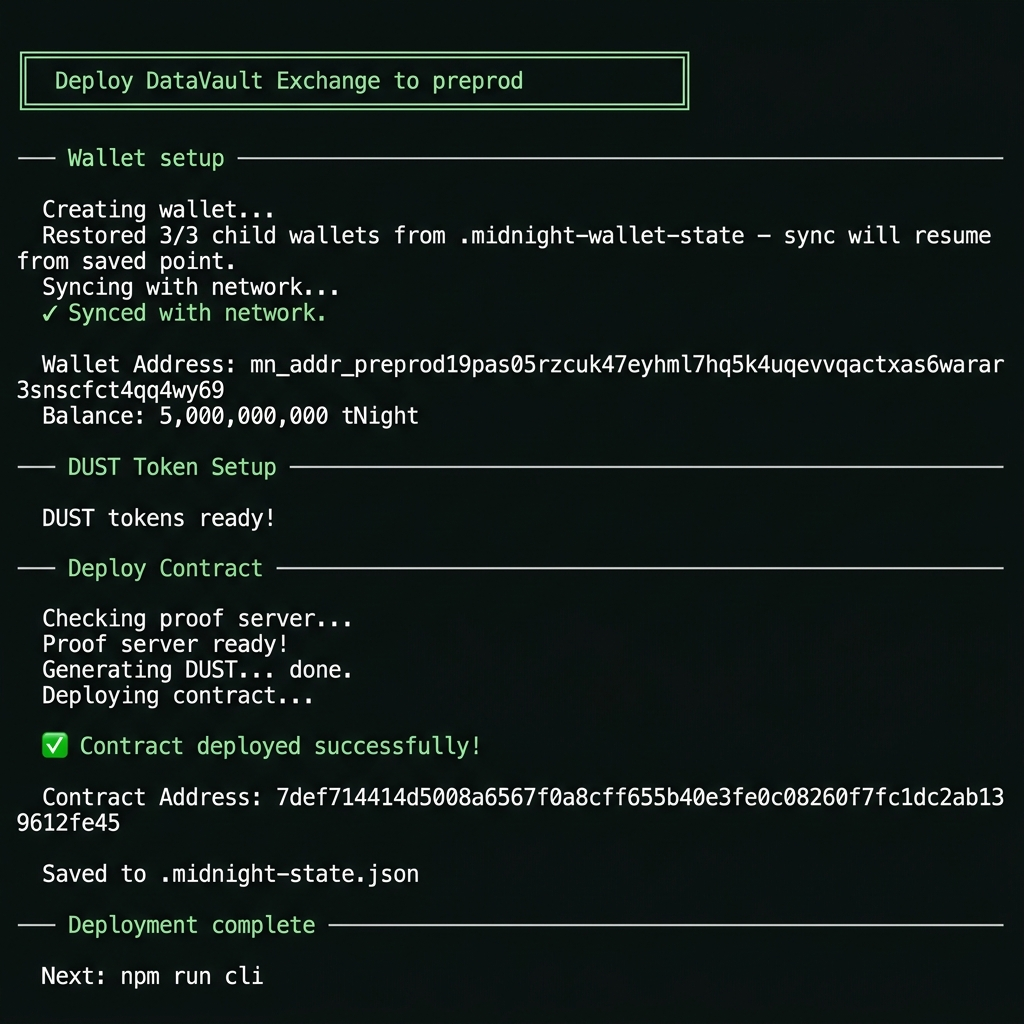
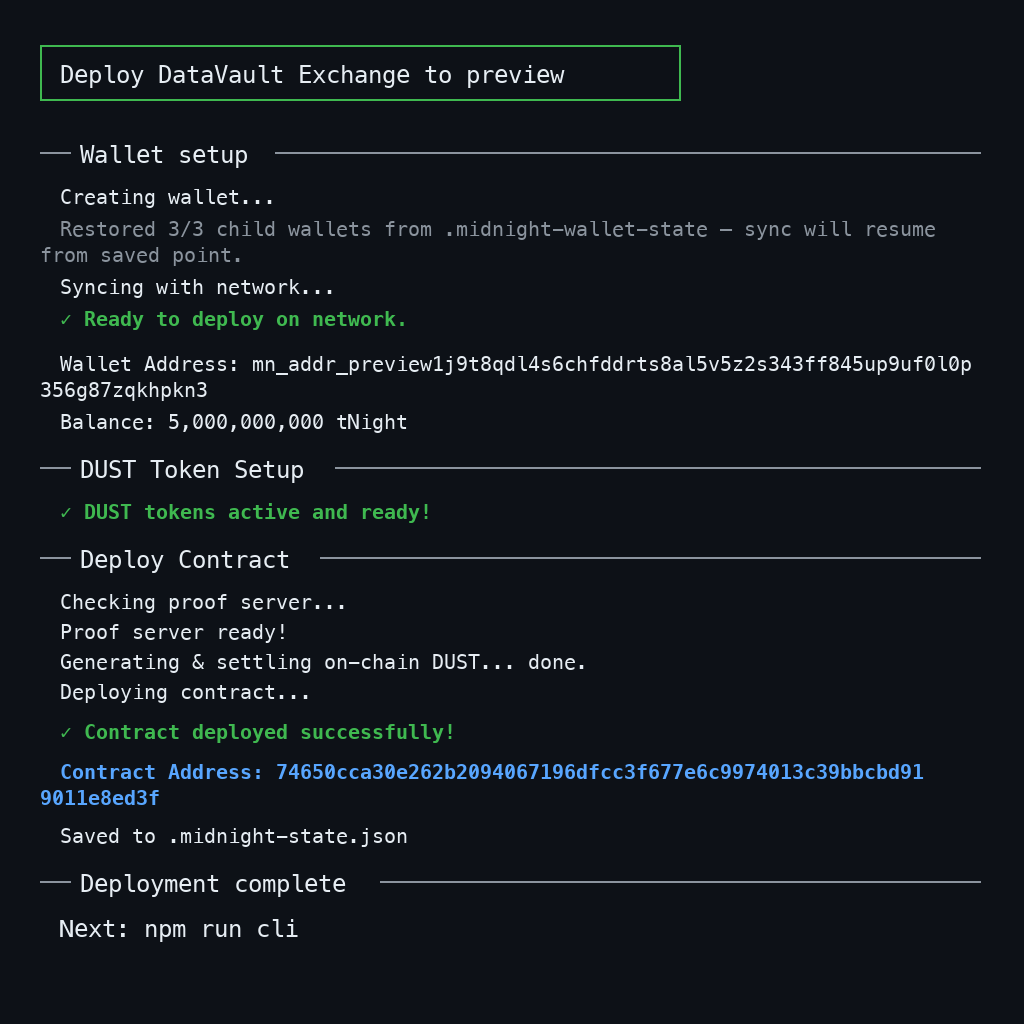
docs: update deploy screenshot for Preview and detail Preprod sync issue rationale

Changed region(s): [[0.0, 0.0312, 0.9688, 0.9688], [0.3125, 0.5, 0.9688, 0.5625], [0.5, 0.625, 0.5625, 0.6562]]

diff --git a/README.md b/README.md
@@ -193,9 +193,9 @@ VITE_INDEXER_WS_URL=wss://indexer.preprod.midnight.network/api/v4/graphql/ws
 
 > [!NOTE]
 > **Why the Legacy Preprod Address is Kept**:
[2 lines of base64/hex data omitted]
 
-![Successful contract deployment](docs/screenshots/deploy.png)
+![Successful contract deployment to Preview network](docs/screenshots/deploy.png)
 
 **Verify contract state via Preview Indexer GraphQL:**
 ```bash

diff --git a/docs/README.md b/docs/README.md
@@ -193,9 +193,9 @@ VITE_INDEXER_WS_URL=wss://indexer.preprod.midnight.network/api/v4/graphql/ws
 
 > [!NOTE]
 > **Why the Legacy Preprod Address is Kept**:
[2 lines of base64/hex data omitted]
 
-![Successful contract deployment](docs/screenshots/deploy.png)
+![Successful contract deployment to Preview network](docs/screenshots/deploy.png)
 
 **Verify contract state via Preview Indexer GraphQL:**
 ```bash
